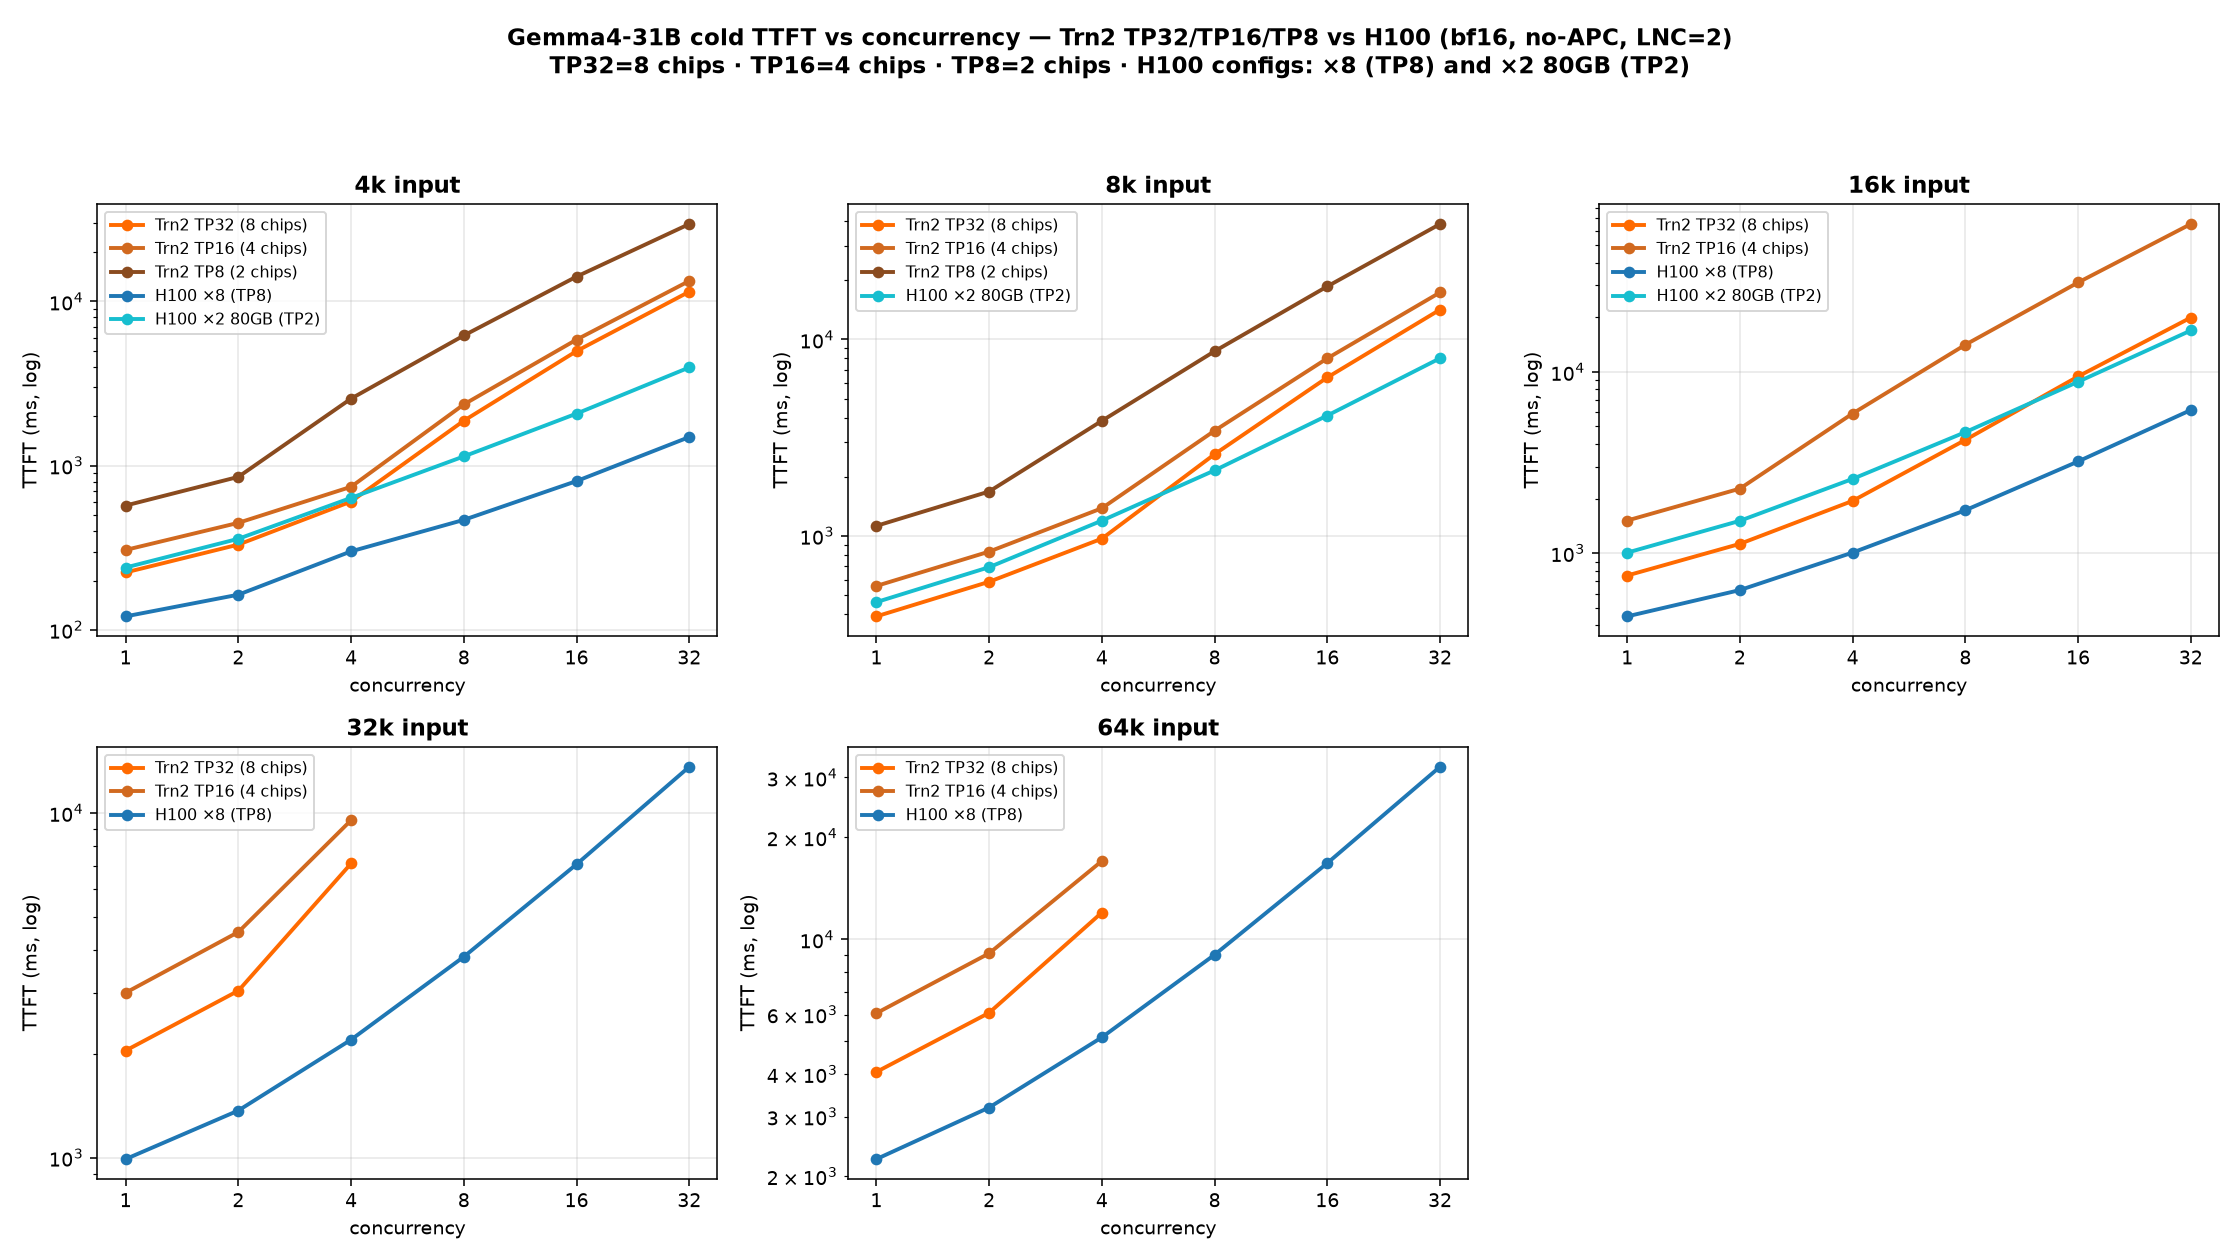
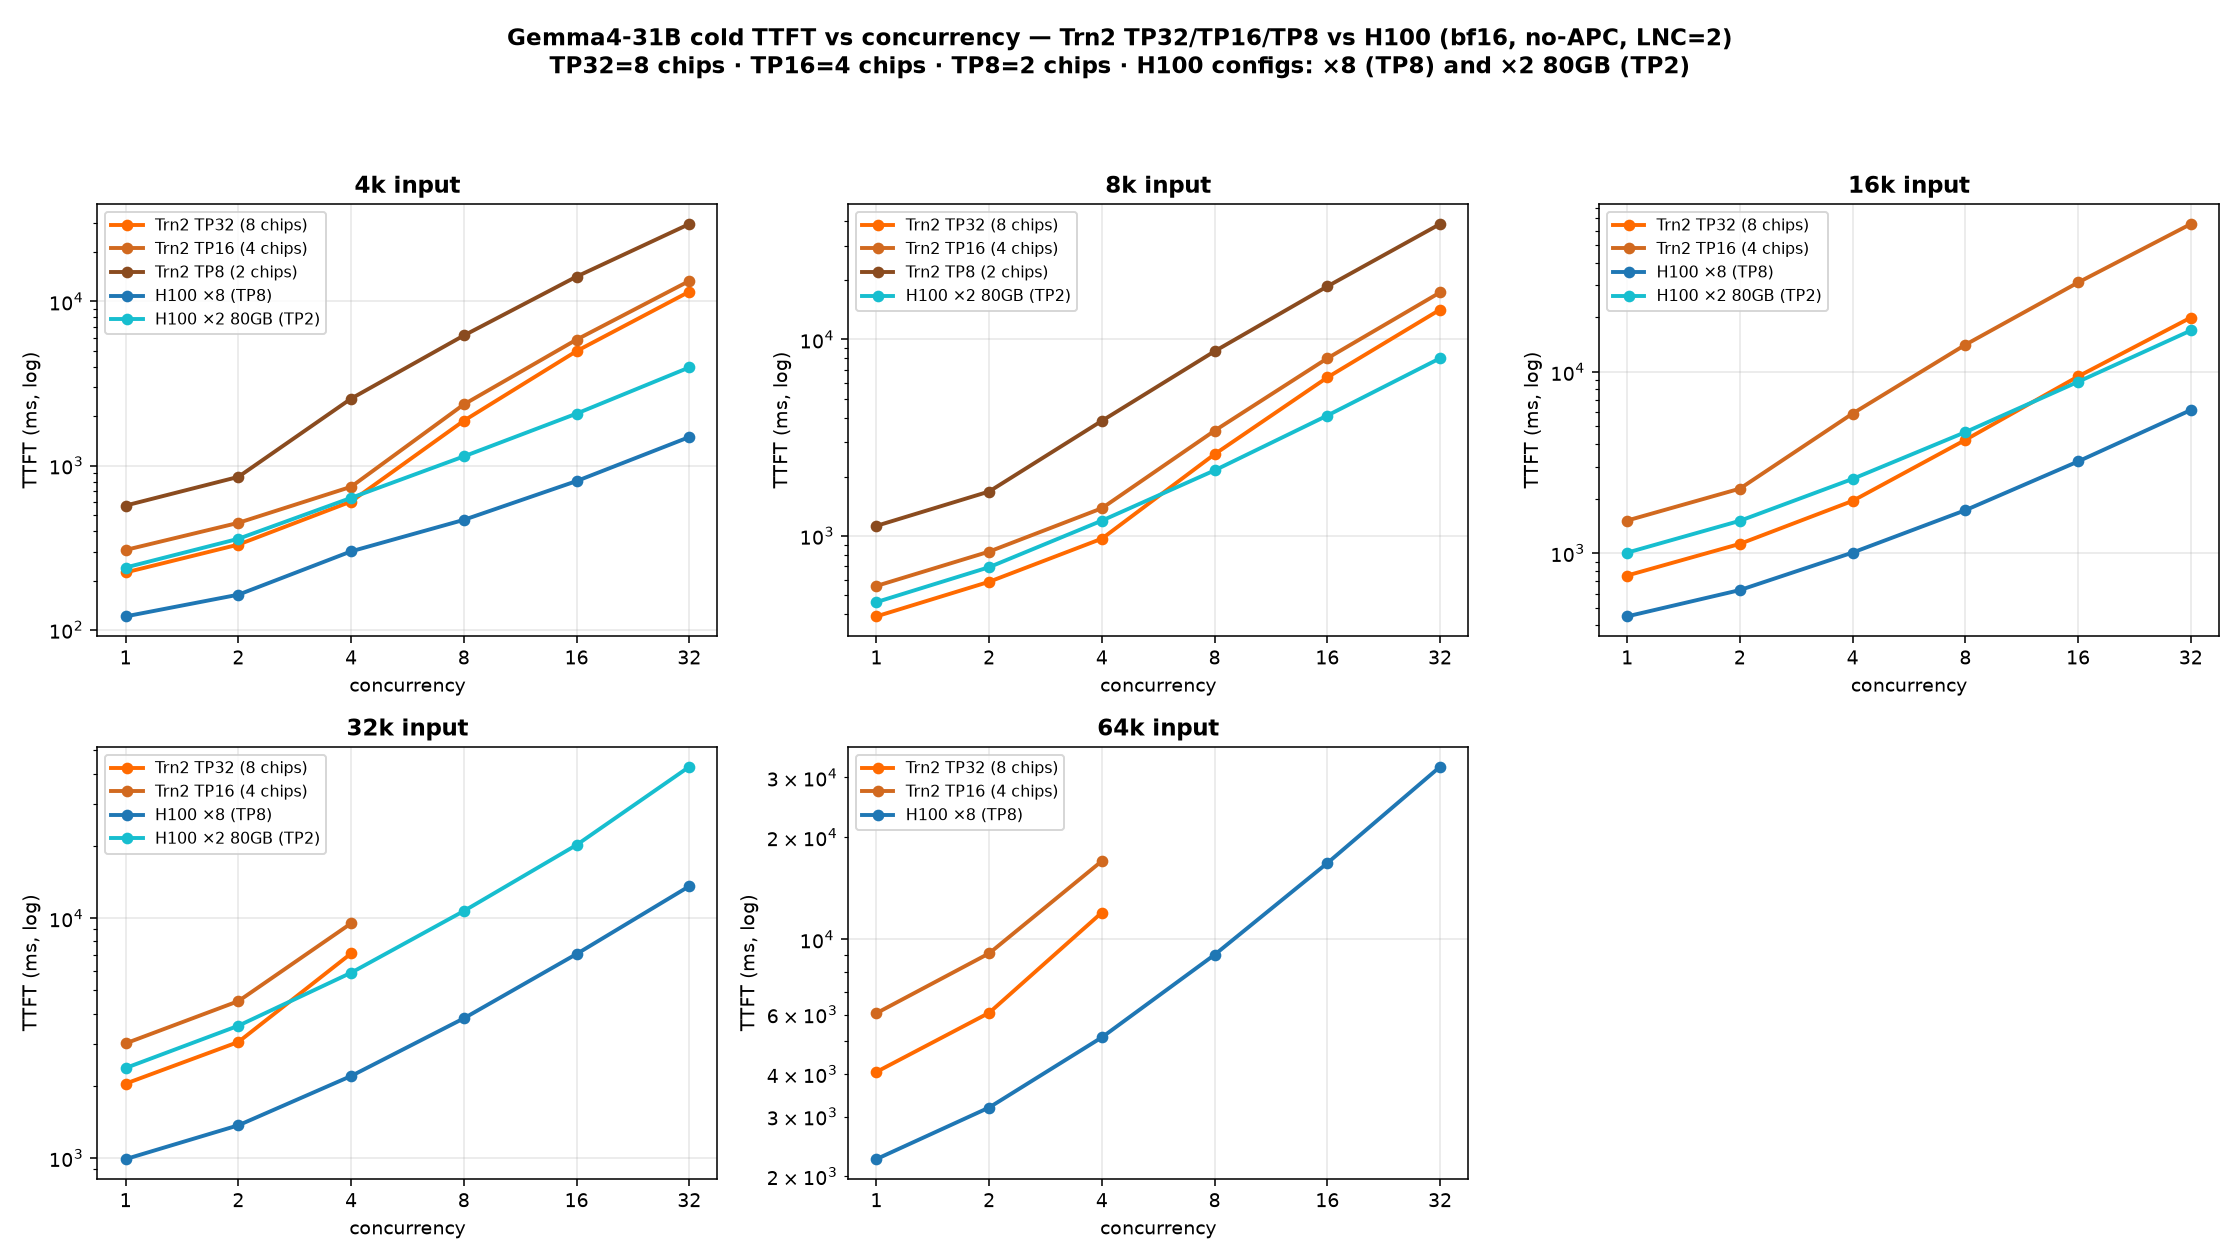
Add H100 x2 80GB (TP2) 32k data to TP-scaling charts + README - H100 TP2 now has 4k/8k/16k/32k conc sweeps; 64k OOMs on 2x H100 80GB - 32k: Trn2 TP32 (2.046s) still beats H100 x2 TP2 (2.377s) at conc=1 - Updated both charts (conc1 bars + concurrency sweep) and the conc=1 table - Footnote: TP2 32k us

diff --git a/gemma4-31b/vllm-neuron-4k_16k_32k_64k_no_APC/make_perf_chart_tp.py b/gemma4-31b/vllm-neuron-4k_16k_32k_64k_no_APC/make_perf_chart_tp.py
@@ -14,7 +14,8 @@ Topology: LNC=2 (logical-neuroncore-config=2) -> 4 logical cores/chip, 96GB/chip
 GPU baselines (two H100 configs):
 - "H100 ×8 (TP8)": 8× H100 at TP=8 — a large 8-GPU config; fastest here. No 8k point.
 - "H100 2×80GB (TP2)": 2× H100 80GB, TP=2 — a comparable-scale GPU config. Trn2 TP32
-  BEATS it at 4k/8k/16k (0.224/0.390/0.754 vs 0.240/0.461/1.008). No 32k/64k points.
+  BEATS it at 4k/8k/16k/32k (0.224/0.390/0.754/2.046 vs 0.240/0.461/1.008/2.377).
+  No 64k point (2× H100 80GB OOMs at 64k KV).
 """
 import os
 import matplotlib
@@ -36,9 +37,10 @@ TP8  = {"4k": [0.572,0.855,2.56,6.201,14.155,29.574], "8k": [1.126,1.684,3.853,8
 H100 = {"4k": [0.121,0.164,0.301,0.468,0.806,1.494], "8k": None,
         "16k": [0.449,0.627,1.009,1.727,3.207,6.156], "32k": [0.992,1.372,2.201,3.827,7.094,13.597],
         "64k": [2.249,3.192,5.139,9.005,16.773,32.258]}
-# 2x H100 80GB, TP=2 (comparable-scale GPU config). 4k/8k/16k only.
+# 2x H100 80GB, TP=2 (comparable-scale GPU config). 4k/8k/16k out=40, 32k out=500.
+# 64k = OOM (2x H100 80GB can't hold 64k KV).
 H100_TP2 = {"4k": [0.240,0.359,0.637,1.139,2.075,3.964], "8k": [0.461,0.694,1.197,2.157,4.100,8.021],
-            "16k": [1.008,1.510,2.569,4.651,8.812,16.894], "32k": None, "64k": None}
+            "16k": [1.008,1.510,2.569,4.651,8.812,16.894], "32k": [2.377,3.565,5.927,10.714,20.192,42.746], "64k": None}
 
 # order = bar order left->right; H100 configs last
 SERIES = [("TP32", TP32), ("TP16", TP16), ("TP8", TP8), ("H100", H100), ("H100_TP2", H100_TP2)]
@@ -77,7 +79,7 @@ def chart_conc1():
     ax.set_ylabel("TTFT (s, log)"); ax.set_xlabel("input size")
     ax.set_title("Gemma4-31B cold TTFT — TP scaling vs H100 (conc=1)\n"
                  "trn2.48xl LNC=2 (4 cores/chip): TP32=8 chips · TP16=4 · TP8=2 · bf16, no-APC · "
-                 "Trn2 TP32 beats H100 ×2 (TP2) at 4k/8k/16k",
+                 "Trn2 TP32 beats H100 ×2 (TP2) through 32k",
                  fontsize=10.5, fontweight="bold")
     ax.grid(True, axis="y", alpha=0.3, zorder=0)
     ax.legend(ncol=5, fontsize=8, loc="upper left")

diff --git a/gemma4-31b/vllm-neuron-4k_16k_32k_64k_no_APC/README.md b/gemma4-31b/vllm-neuron-4k_16k_32k_64k_no_APC/README.md
@@ -85,10 +85,11 @@ core**. TP maps 1 rank → 1 logical core (4 per chip), so **TP=32 = 8 chips**, 
 | 4k | **0.224** | 0.307 | 0.572 | 0.121 | 0.240 |
 | 8k | **0.390** | 0.557 | 1.126 | — | 0.461 |
 | 16k | **0.754** | 1.515 † | **OOM** | 0.449 | 1.008 |
-| 32k | **2.046** | 3.01 | **OOM** | 0.992 | — |
-| 64k | **4.064** | 6.056 | **OOM** | 2.249 | — |
+| 32k | **2.046** | 3.01 | **OOM** | 0.992 | 2.377 ‡ |
+| 64k | **4.064** | 6.056 | **OOM** | 2.249 | **OOM** |
 
 † TP16 16k measured via the segmented path (single-shot 16k needs prompt headroom under the 16384 cap).
+‡ `H100 ×2 80GB (TP2)` 32k measured with 500 output tokens (4k/8k/16k use 40); TTFT is first-token latency, so output length does not affect it. At **64k the 2× H100 80GB config OOMs** (can't hold the KV cache), so it has no 32k+ entry beyond this.
 
 **What the TP sweep shows:**
 - **TP32 has the lowest TTFT** — it shards the prefill matmuls across the most cores, so first-token
@@ -103,8 +104,9 @@ core**. TP maps 1 rank → 1 logical core (4 per chip), so **TP=32 = 8 chips**, 
 
 **Honest note on the H100 comparison:** these are Trn2's **cold / bf16 / no-APC worst-case** numbers,
 the large **`H100 ×8 (TP8)`** (8 GPUs) shows lower TTFT here — ~1.5–2× at conc=1. **But against a
-comparable-scale `H100 ×2 80GB (TP2)` (2 GPUs), Trn2 TP32 (8 chips) is actually *faster* at 4k/8k/16k
-even cold** (0.224/0.390/0.754 vs 0.240/0.461/1.008 s). And Trn2's win widens in the **APC / RAG config**
+comparable-scale `H100 ×2 80GB (TP2)` (2 GPUs), Trn2 TP32 (8 chips) is actually *faster* at 4k/8k/16k/32k
+even cold** (0.224/0.390/0.754/2.046 vs 0.240/0.461/1.008/2.377 s) — and at **64k the 2× H100 80GB config
+OOMs entirely** while Trn2 TP32 still serves it at 4.06 s. Trn2's win widens further in the **APC / RAG config**
 (fp8-KV cache-hits) — see the sibling
 [`../vllm-neuron-4k_16k_32k_64_PublicVLLM`](../vllm-neuron-4k_16k_32k_64_PublicVLLM). This folder is
 the honest cold floor; TP8/TP16's real value is throughput / $-per-token and replica density, not cold TTFT.
